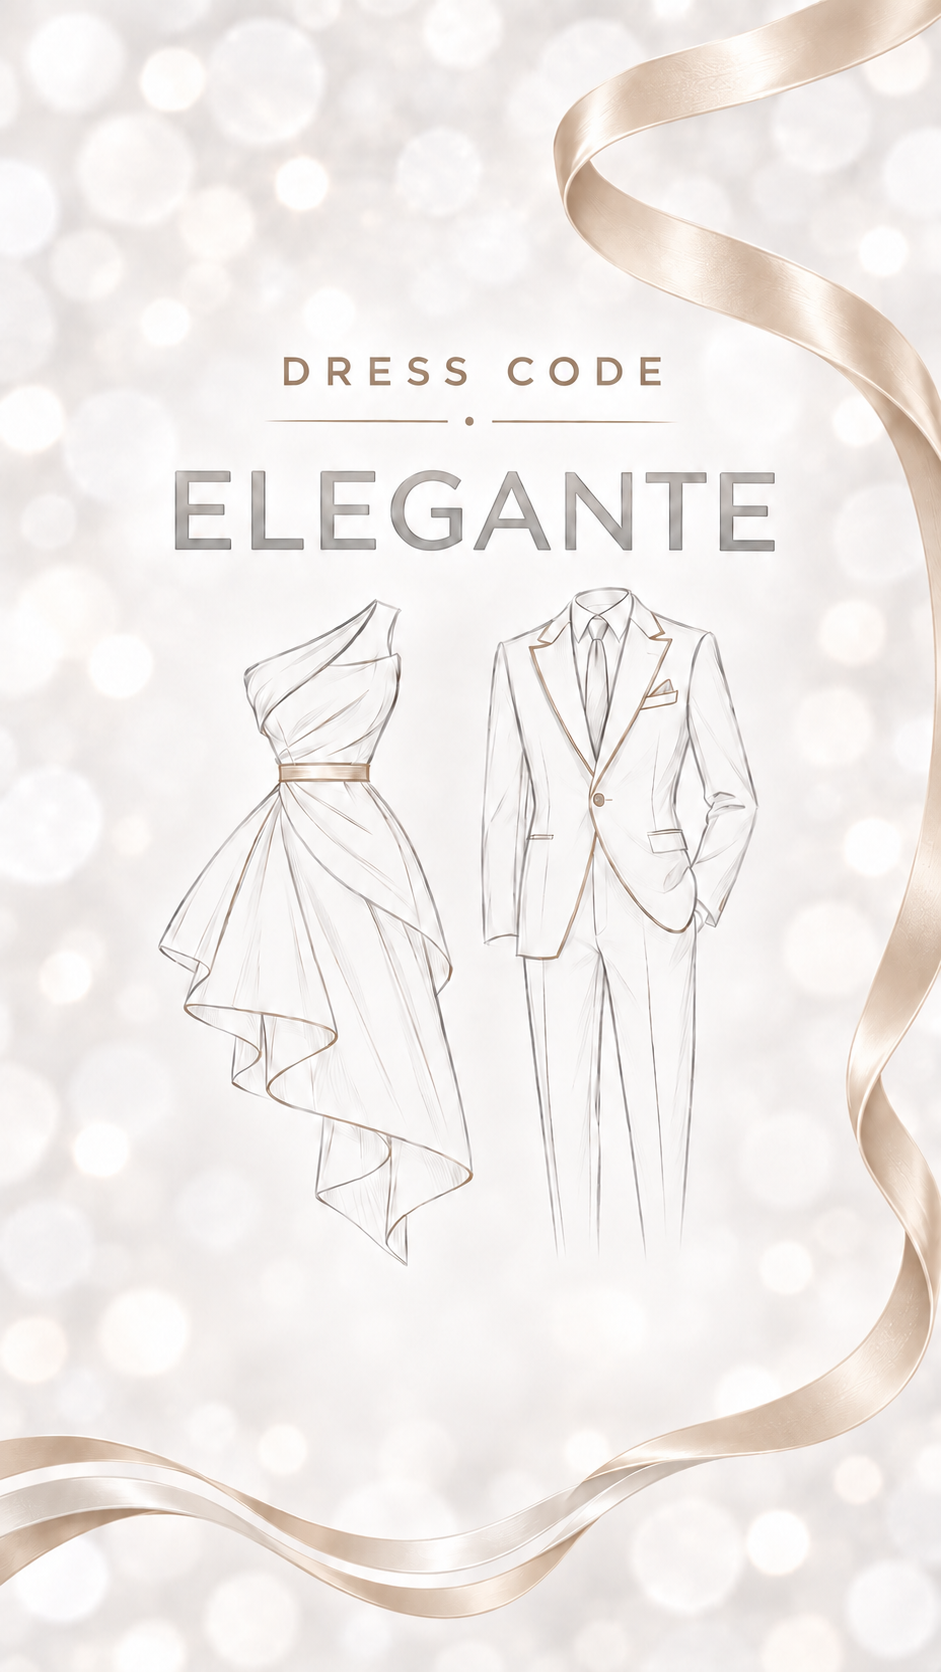
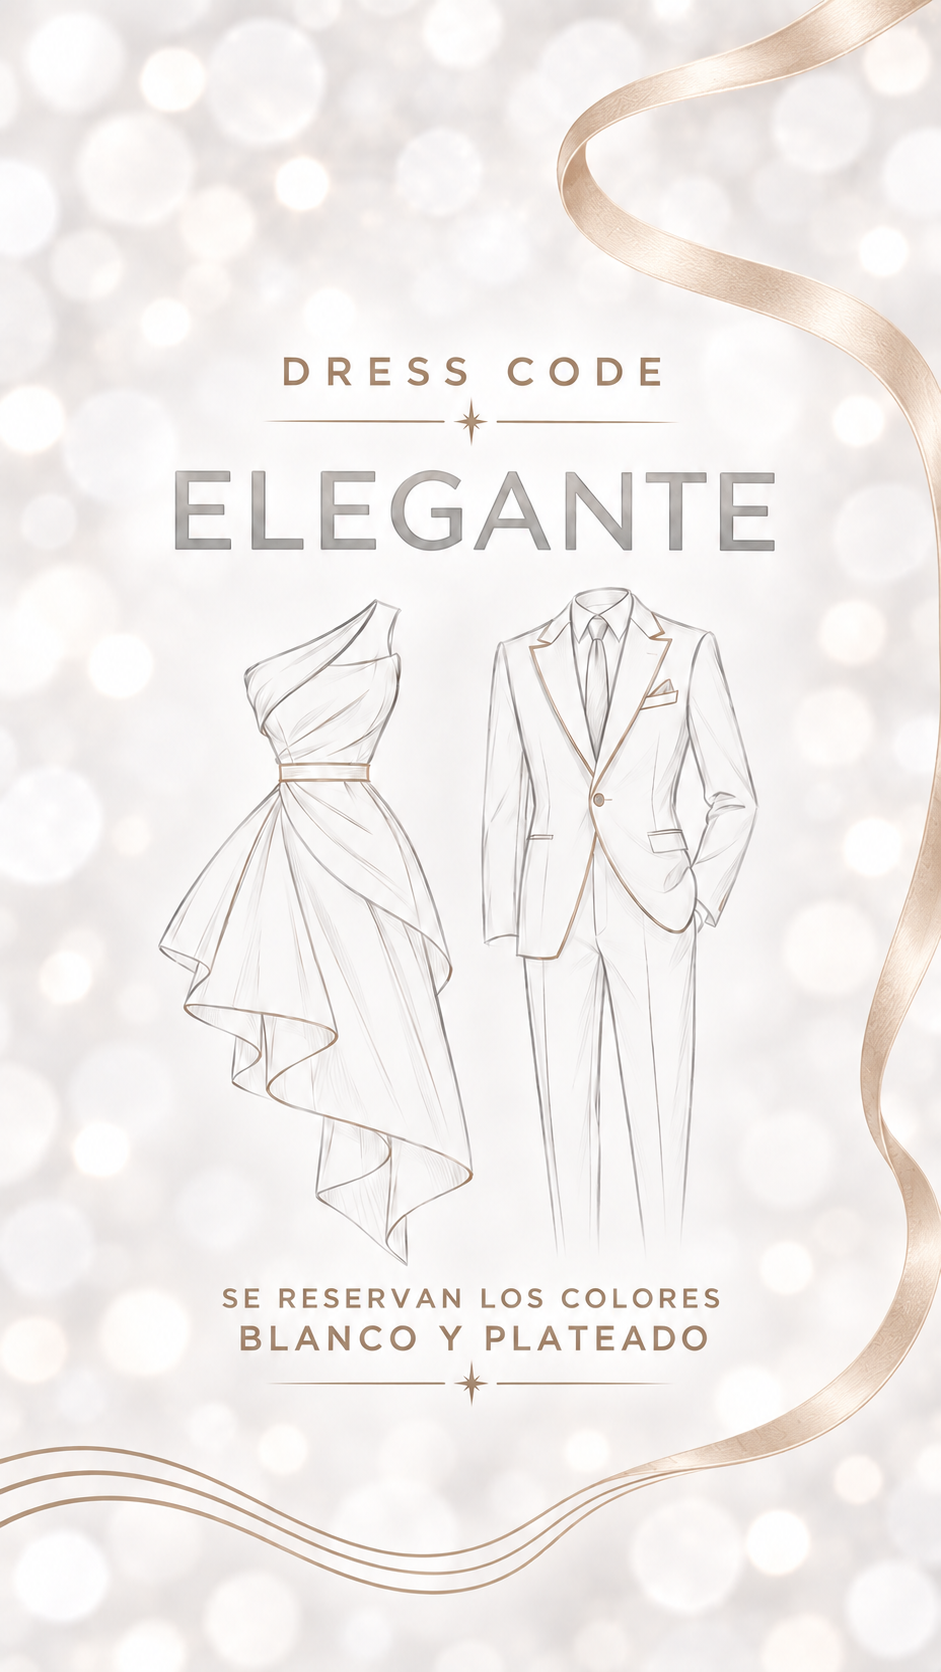
Actualizar fecha, hora y dress code

diff --git a/index.html b/index.html
@@ -6,7 +6,7 @@
   <meta name="theme-color" content="#f7f3f0">
   <meta name="description" content="Invitación a los XV de Lucrecia — 14 de noviembre de 2026.">
   <meta property="og:title" content="Mis XV — Lucrecia">
-  <meta property="og:description" content="Te espero el sábado 14 de noviembre de 2026 a las 20:30 hs.">
+  <meta property="og:description" content="Te espero el sábado 14 de noviembre de 2026 a las 21:00 hs.">
   <meta property="og:image" content="assets/portada-lucrecia.png">
   <title>Mis XV — Lucrecia</title>
   <link rel="preconnect" href="https://fonts.googleapis.com">
@@ -41,7 +41,7 @@
     </section>
 
     <section class="panel date-reveal" aria-label="Fecha y hora">
-      <img class="date-result" src="assets/fecha-revelada.png" alt="Sábado 14 de noviembre, 20:30 horas">
+      <img class="date-result" src="assets/fecha-revelada.png" alt="Sábado 14 de noviembre, 21:00 horas">
       <img id="scratch-source" src="assets/cuenta-regresiva.png" alt="" hidden>
       <canvas class="date-cover" aria-label="Pasá el dedo sobre toda la pantalla para descubrir la fecha"></canvas>
       <div class="scratch-sparkles" aria-hidden="true"></div>
@@ -53,7 +53,7 @@
           <i>✦</i>
         </div>
       </div>
-      <a class="hotspot calendar-link" href="https://calendar.google.com/calendar/render?action=TEMPLATE&text=XV+de+Lucrecia&dates=20261114T233000Z/20261115T063000Z&details=Mis+XV+de+Lucrecia&location=Sal%C3%B3n+Country+Chacras+del+Valle+Nuevo" target="_blank" rel="noopener" aria-label="Agregar al calendario"></a>
+      <a class="hotspot calendar-link" href="https://calendar.google.com/calendar/render?action=TEMPLATE&text=XV+de+Lucrecia&dates=20261115T000000Z/20261115T070000Z&details=Mis+XV+de+Lucrecia&location=Sal%C3%B3n+Country+Chacras+del+Valle+Nuevo" target="_blank" rel="noopener" aria-label="Agregar al calendario"></a>
     </section>
 
     <section class="panel image-panel action-panel" aria-label="Cómo llegar">
@@ -63,7 +63,6 @@
 
     <section class="panel image-panel dress-panel" aria-label="Dress code">
       <img src="assets/dress-code.png" alt="Dress code elegante. Se reservan los colores blanco y plateado">
-      <div class="dress-note"><span>COLORES RESERVADOS</span><strong>BLANCO Y PLATEADO</strong></div>
     </section>
 
     <section class="panel image-panel action-panel music-panel" aria-label="Elegir una canción">

diff --git a/script.js b/script.js
@@ -1,4 +1,4 @@
-const eventDate = new Date('2026-11-14T20:30:00-03:00');
+const eventDate = new Date('2026-11-14T21:00:00-03:00');
 const welcome=document.querySelector('#welcome');
 const backgroundMusic=document.querySelector('#background-music');
 const audioControl=document.querySelector('.audio-control');
